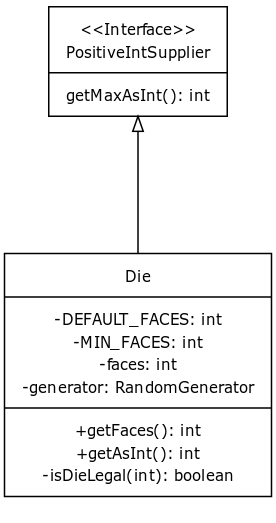
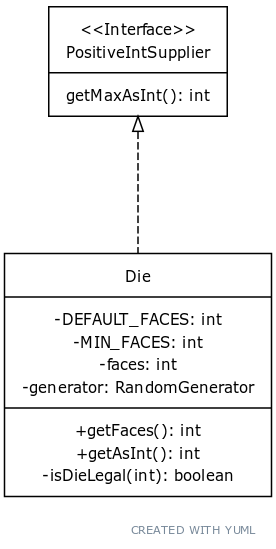
Fixed UMLs

diff --git a/darwinsquest.tex b/darwinsquest.tex
@@ -654,7 +654,7 @@
     \begin{figure}[h]
     \centering{}
     \caption{Die UML diagram.}
-    \includegraphics[scale=0.8]{die_uml}
+    \includegraphics[scale=0.5]{die_uml}
     \end{figure}
 
     \subsubsection{\underline{SpriteAnimation}}
